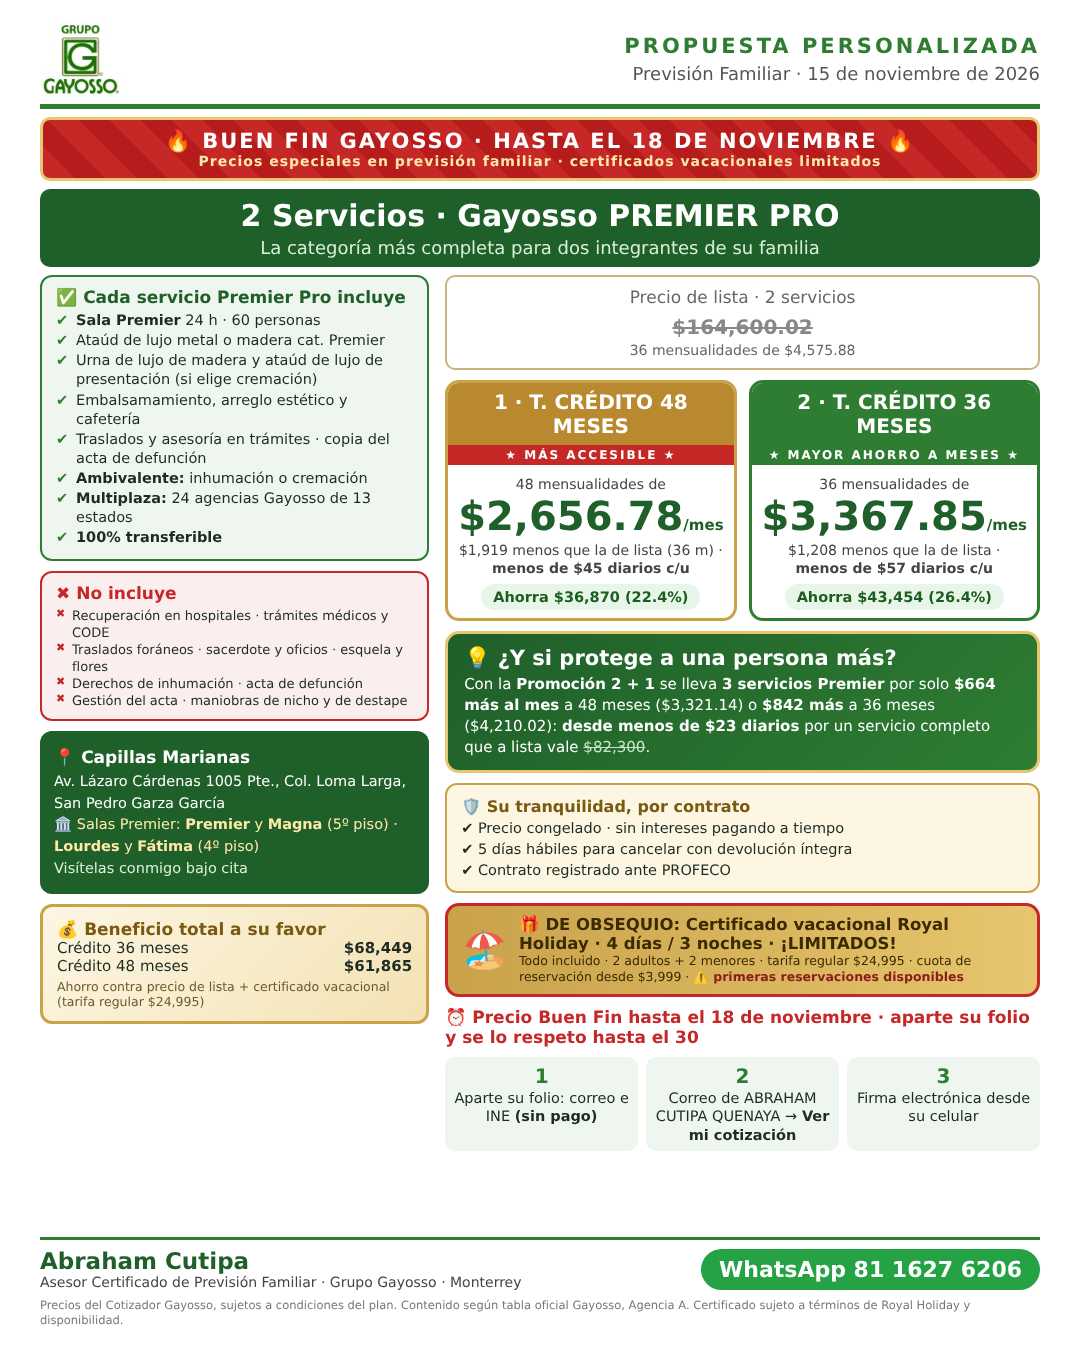
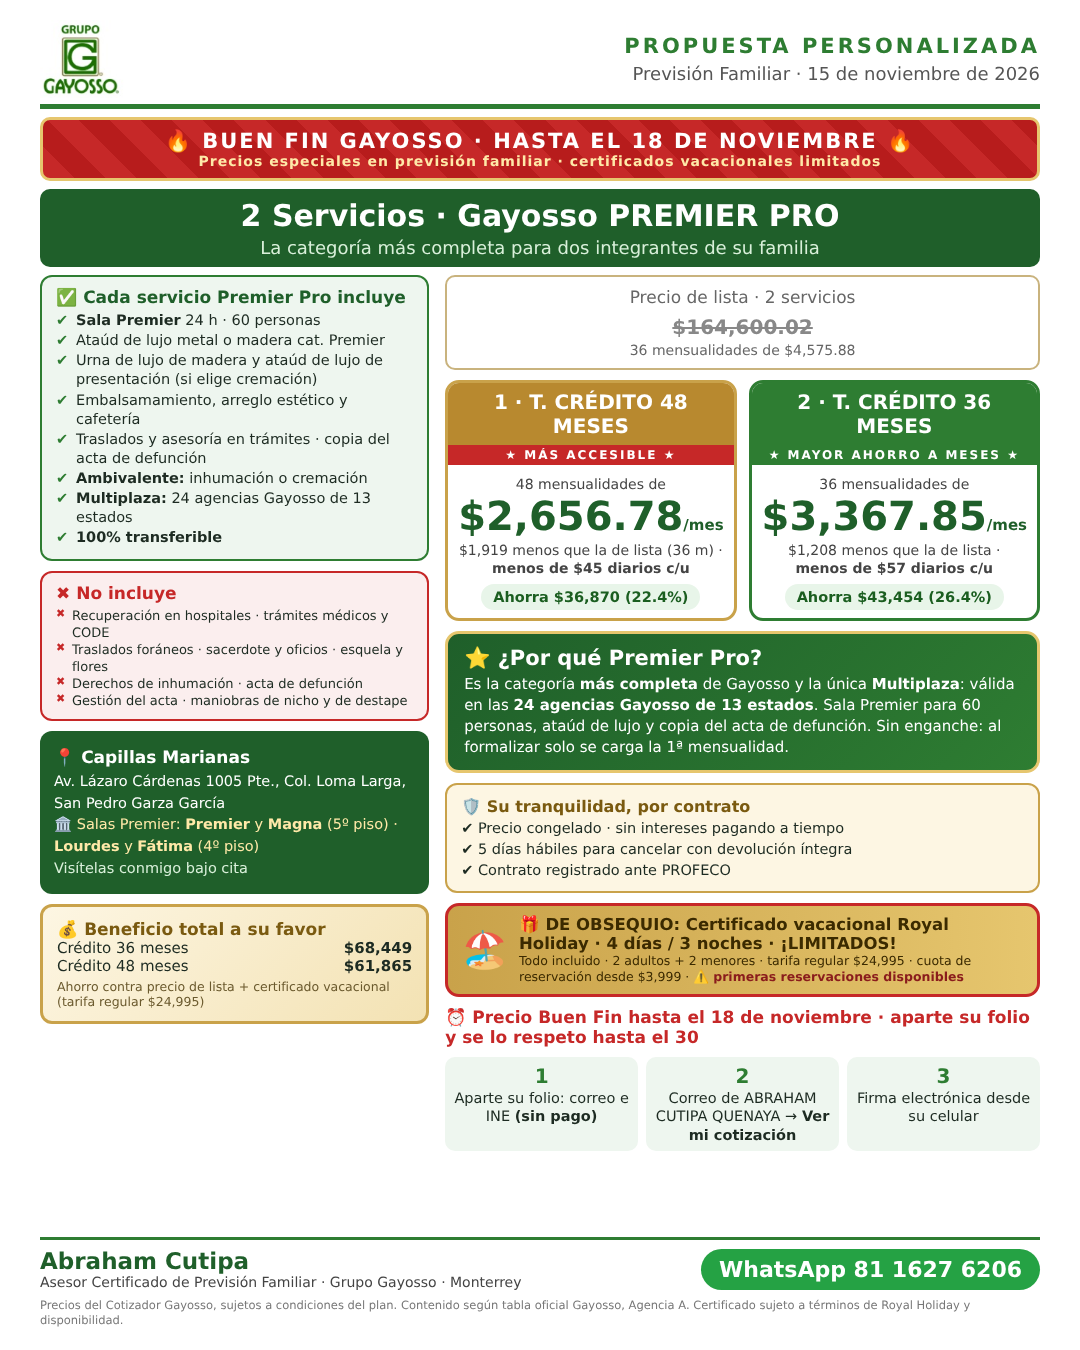
2 Premier Marianas: sin upsell, recuadro Por qué Premier
Claude-Session: https://claude.ai/code/session_01PccRGVGwaaPKDitcWkgoNs

Changed region(s): [[0.4278, 0.4667, 0.9472, 0.56]]

diff --git a/propuesta/premier2_marianas_tdc.html b/propuesta/premier2_marianas_tdc.html
@@ -85,7 +85,7 @@ body{width:1080px;height:1350px;font-family:"DejaVu Sans",Arial,sans-serif;backg
    <div class="op" style="flex:1;border-color:#c9a24a"><div class="h" style="background:#b8892f;font-size:20px">1 · T. CRÉDITO 48 MESES</div><div class="badge">★ MÁS ACCESIBLE ★</div><div class="b"><div class="sm">48 mensualidades de</div><div class="big" style="font-size:40px">$2,656.78<span style="font-size:15px">/mes</span></div><div class="sm">$1,919 menos que la de lista (36 m) · <b>menos de $45 diarios c/u</b></div><div class="sv">Ahorra $36,870 (22.4%)</div></div></div>
    <div class="op" style="flex:1"><div class="h" style="font-size:20px">2 · T. CRÉDITO 36 MESES</div><div class="badge" style="background:#2e7d32">★ MAYOR AHORRO A MESES ★</div><div class="b"><div class="sm">36 mensualidades de</div><div class="big" style="font-size:40px">$3,367.85<span style="font-size:15px">/mes</span></div><div class="sm">$1,208 menos que la de lista · <b>menos de $57 diarios c/u</b></div><div class="sv">Ahorra $43,454 (26.4%)</div></div></div>
   </div>
-  <div class="nicho"><div class="t">💡 ¿Y si protege a una persona más?</div><div class="s">Con la <b>Promoción 2 + 1</b> se lleva <b>3 servicios Premier</b> por solo <b>$664 más al mes</b> a 48 meses ($3,321.14) o <b>$842 más</b> a 36 meses ($4,210.02): <b>desde menos de $23 diarios</b> por un servicio completo que a lista vale <s>$82,300</s>.</div></div>
+  <div class="nicho"><div class="t">⭐ ¿Por qué Premier Pro?</div><div class="s">Es la categoría <b>más completa</b> de Gayosso y la única <b>Multiplaza</b>: válida en las <b>24 agencias Gayosso de 13 estados</b>. Sala Premier para 60 personas, ataúd de lujo y copia del acta de defunción. Sin enganche: al formalizar solo se carga la 1ª mensualidad.</div></div>
   <div class="box" style="background:#fdf6e3;border:2px solid #c9a24a;font-size:14.5px;line-height:1.45"><b style="color:#7a5a10;font-size:16px">🛡 Su tranquilidad, por contrato</b><br>✔ Precio congelado · sin intereses pagando a tiempo<br>✔ 5 días hábiles para cancelar con devolución íntegra<br>✔ Contrato registrado ante PROFECO</div>
   <div class="gift"><div class="i">🏖</div><div><div class="t">🎁 DE OBSEQUIO: Certificado vacacional Royal Holiday · 4 días / 3 noches · ¡LIMITADOS!</div><div class="s">Todo incluido · 2 adultos + 2 menores · tarifa regular $24,995 · cuota de reservación desde $3,999 · <b style="color:#8a1c1c">⚠ primeras reservaciones disponibles</b></div></div></div>
   <div class="vig">⏰ Precio Buen Fin hasta el 18 de noviembre · aparte su folio y se lo respeto hasta el 30</div>
